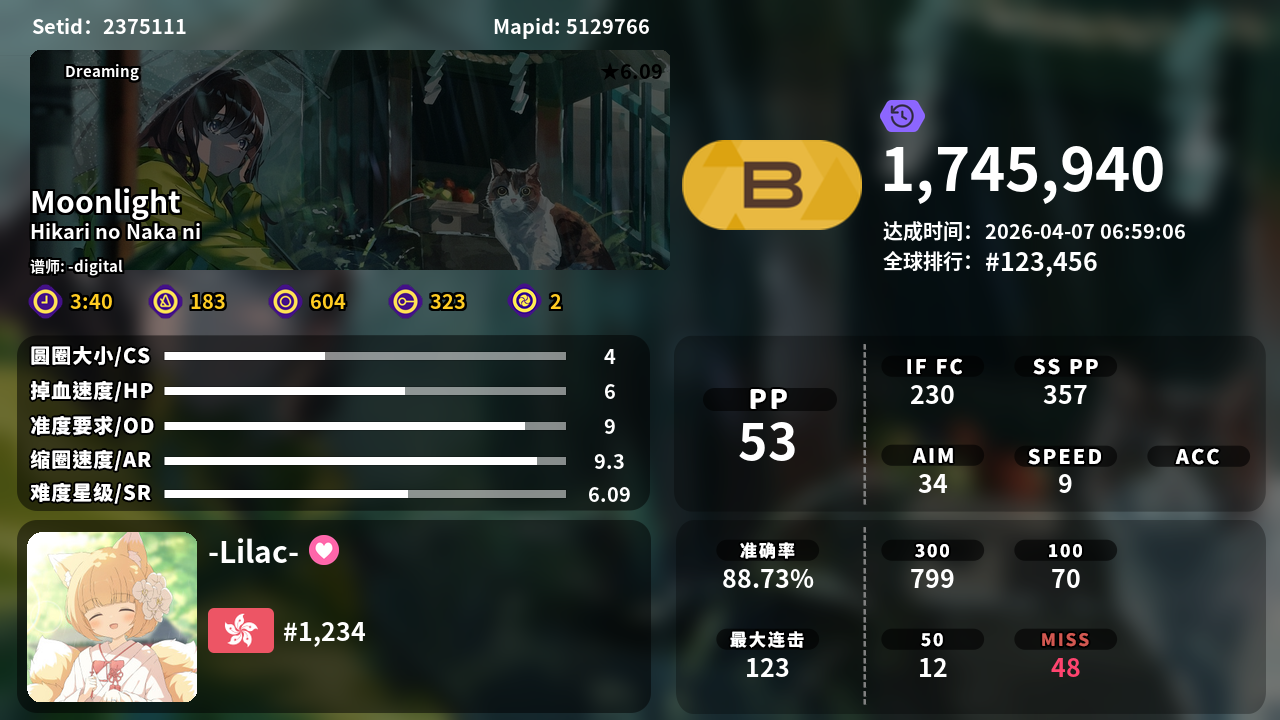
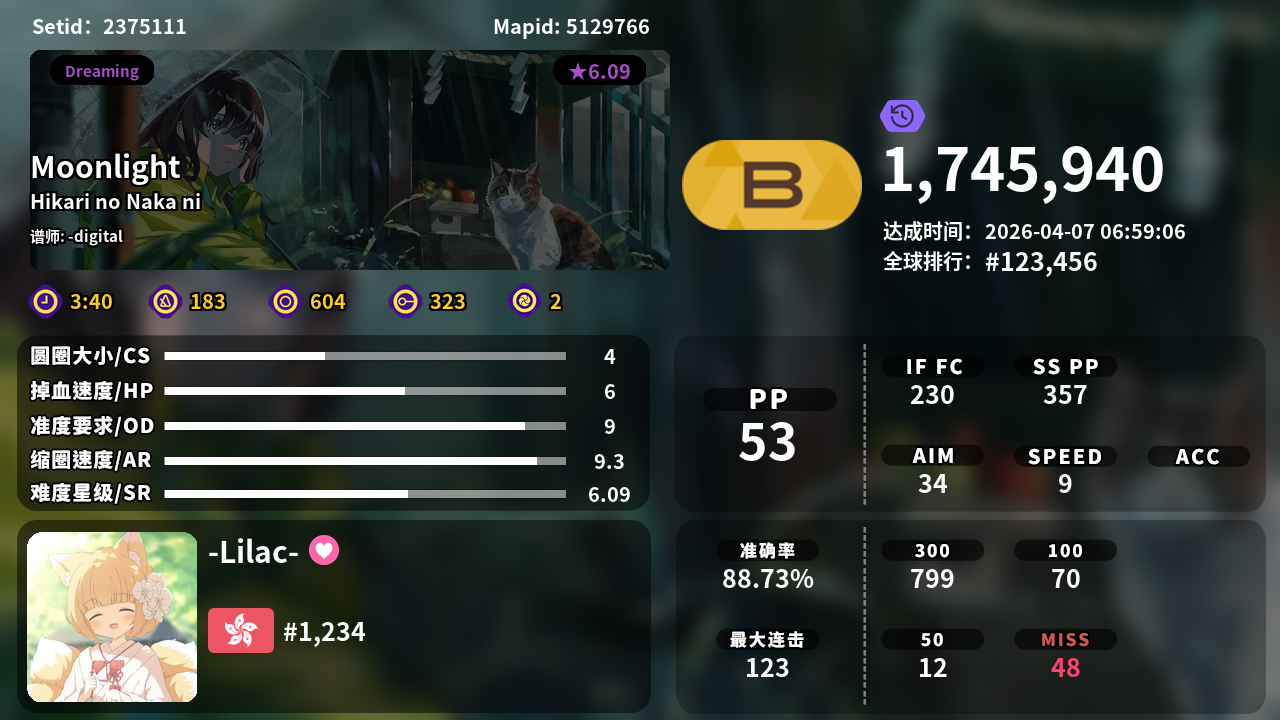
难度字符颜色适配

Changed region(s): [[0.0, 0.2139, 0.1562, 0.3972], [0.0312, 0.0611, 0.125, 0.1222], [0.4375, 0.0611, 0.5312, 0.1222]]

diff --git a/draw.py b/draw.py
@@ -643,29 +643,43 @@ class ScoreImageGenerator:
             fill=(255, 255, 255, 255)
         )
         
+        # 获取难度与星级颜色
+        difficulty = beatmap_info.get("difficulty_rating", 0)
+        r, g, b = StarColorMapper().get_color(difficulty)
+        diff_color = (r, g, b, 255)
+        
         # 谱面版本（难度标签） (65, 70)
         version = beatmap_info.get('version', '???')
+        version_font = self.assets.get_font('torus_sb_15')
+        v_width = version_font.getlength(version)
+        
+        # 绘制半透明圆角矩形作为难度标签背景
+        # 高度约30，圆角15，宽度自适应 (增加透明度至70，符合"一点点"不透明的要求)
+        diff_bg = Image.new("RGBA", (int(v_width + 30), 30), (0, 0, 0, 70))
+        diff_bg = draw_fillet(diff_bg, 15)
+        im.alpha_composite(diff_bg, (50, 55))
+        
         draw_text_with_outline(
             draw,
             (65, 70),
             version,
-            self.assets.get_font('torus_sb_15'),
-            fill=(255, 255, 255, 255),
+            version_font,
+            fill=diff_color,
             anchor="lm"
         )
         
-        # 谱面标题 (30, 200)
+        # 谱面标题 (30, 165)
         title = beatmap_info.get('title', '???')
         draw_text_with_outline(
             draw,
-            (30, 200),
+            (30, 165),
             title,
             self.assets.get_font('torus_sb_30'),
             fill=(255, 255, 255, 255),
             anchor="lm"
         )
         
-        # 艺术家 (30, 230)
+        # 艺术家 (30, 200)
         # 如果有artist字段用artist，否则用beatmapset.artist，都没有就用creator
         artist = beatmap_info.get('artist')
         if not artist:
@@ -674,19 +688,19 @@ class ScoreImageGenerator:
         
         draw_text_with_outline(
             draw,
-            (30, 230),
+            (30, 200),
             artist,
             self.assets.get_font('torus_sb_20'),
             fill=(255, 255, 255, 255),
             anchor="lm"
         )
         
-        # 谱师 (30, 265)
+        # 谱师 (30, 235)
         creator = beatmap_info.get('creator', '???')
         mapper_text = f"谱师: {creator}"
         draw_text_with_outline(
             draw,
-            (30, 265),
+            (30, 235),
             mapper_text,
             self.assets.get_font('torus_sb_15'),
             fill=(255, 255, 255, 255),
@@ -694,18 +708,22 @@ class ScoreImageGenerator:
         )
         
         # 星级 (600, 70) - 与难度版本同一水平线
-        difficulty = beatmap_info.get("difficulty_rating", 0)
-        if difficulty < 6.5:
-            star_color = (0, 0, 0, 255)
-        else:
-            star_color = (255, 217, 102, 255)
+        star_text = f"★{difficulty:.2f}"
+        star_font = self.assets.get_font('torus_sb_20')
+        s_width = star_font.getlength(star_text)
         
-        draw.text(
+        # 星级背景方块 (统一黑色较小不透明度)
+        star_bg = Image.new("RGBA", (int(s_width + 30), 30), (0, 0, 0, 70))
+        star_bg = draw_fillet(star_bg, 15)
+        im.alpha_composite(star_bg, (int(600 - s_width/2 - 15), 55))  # 根据锚点适当调整
+        
+        draw_text_with_outline(
+            draw,
             (600, 70),
-            f"★{difficulty:.2f}",
-            font=self.assets.get_font('torus_sb_20'),
-            anchor="lm",
-            fill=star_color
+            star_text,
+            star_font,
+            fill=diff_color,
+            anchor="mm"
         )
         
         # 评价/排名 (772, 185) - 移动到了 _draw_rank_icon 中使用图片绘制
